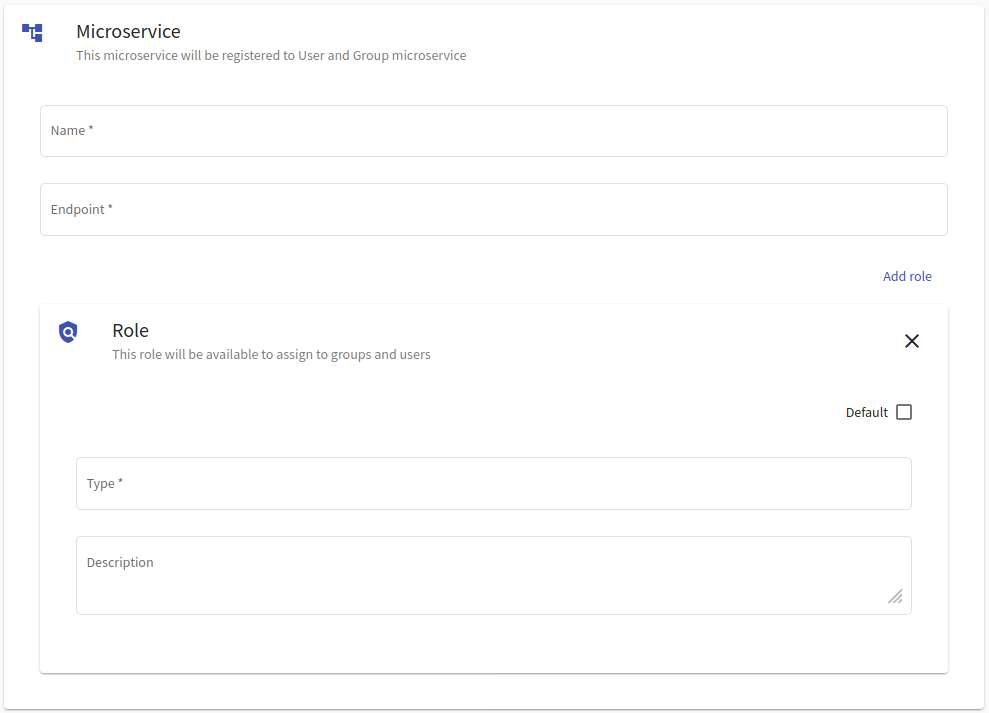
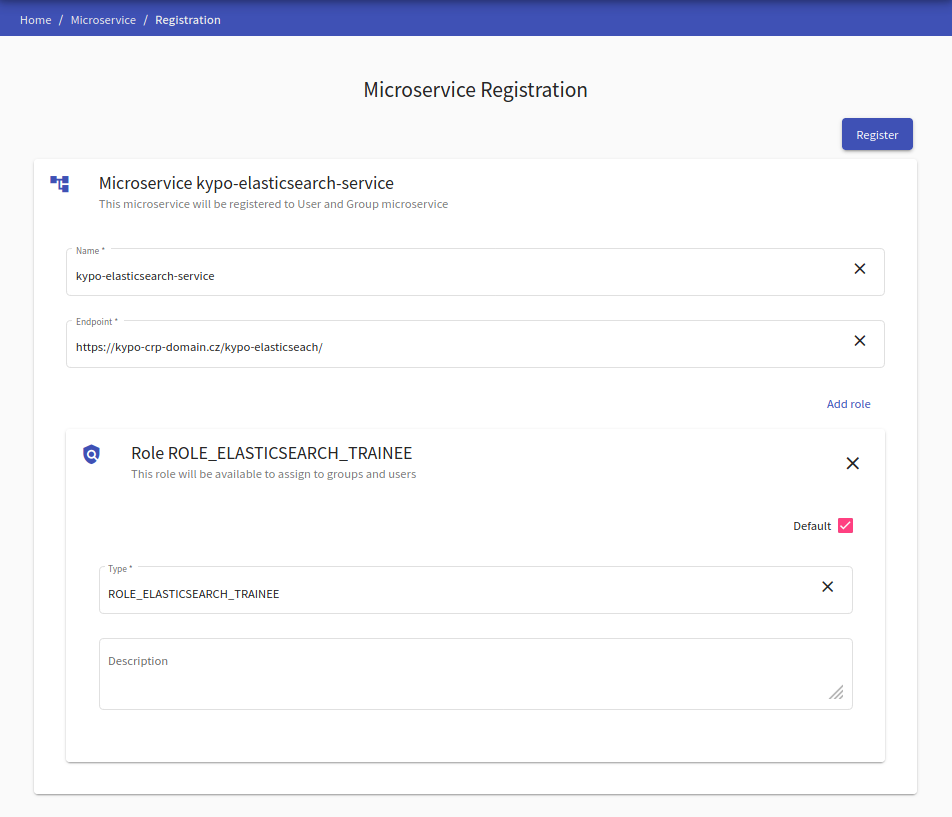
Added description of the microservice overview page.

diff --git a/docs/user-guide-basic/administration-agenda/microservices.md b/docs/user-guide-basic/administration-agenda/microservices.md
@@ -1,3 +1,9 @@
-This section is used to register a new microservice which is then used in the background of the platform. The recommended way is to import the [kypo2-security-commons library](https://gitlab.ics.muni.cz/muni-kypo-crp/backend-java/kypo2-security-commons) into service and register microservice during startup.
+## Microservice Overview
+This page lists all microservices that are registered in the KYPO Platform. A new microservice can be added to the platform by clicking the ![register-button](../../img/buttons/register-button.png) in the top right corner that will redirect an administrator to the [Microservice Registration](#microservice-registration) page. 
+
+![microservice-page](../../img/user-guide-basic/administration-agenda/microservices/microservice-overview.png)
+
+## Microservice Registration
+This page is used to register a new microservice which is then used in the background of the platform. The recommended way is to import the [kypo2-security-commons library](https://gitlab.ics.muni.cz/muni-kypo-crp/backend-java/kypo2-security-commons) into service and register microservice during startup.
 
 ![microservice-page](../../img/user-guide-basic/administration-agenda/microservices/microservice-registration.png)

diff --git a/docs/user-guide-basic/administration-agenda/administration-agenda-overview.md b/docs/user-guide-basic/administration-agenda/administration-agenda-overview.md
@@ -8,20 +8,20 @@ The administration agenda is divided into three sections:
 To access the above-mentioned sections, click the respective button on the front page of the KYPO portal.
 
 <p align="center">
-  <img src="../../../img/user-guide-basic/administration-agenda/home-page-groups-button.png">
+  <img src="../../../img/user-guide-basic/administration-agenda/overview/home-page-groups-button.png">
 </p>
 
 <p align="center">
-  <img src="../../../img/user-guide-basic/administration-agenda/home-page-users-button.png">
+  <img src="../../../img/user-guide-basic/administration-agenda/overview/home-page-users-button.png">
 </p>
 
 <p align="center">
-  <img src="../../../img/user-guide-basic/administration-agenda/home-page-microservices-button.png">
+  <img src="../../../img/user-guide-basic/administration-agenda/overview/home-page-microservices-button.png">
 </p>
 
 
 Or click the button in the global navigation in the section Administration:
 
 <p align="center">
-  <img src="../../../img/user-guide-basic/administration-agenda/administration-left-panel.png">
+  <img src="../../../img/user-guide-basic/administration-agenda/overview/administration-left-panel.png">
 </p>
